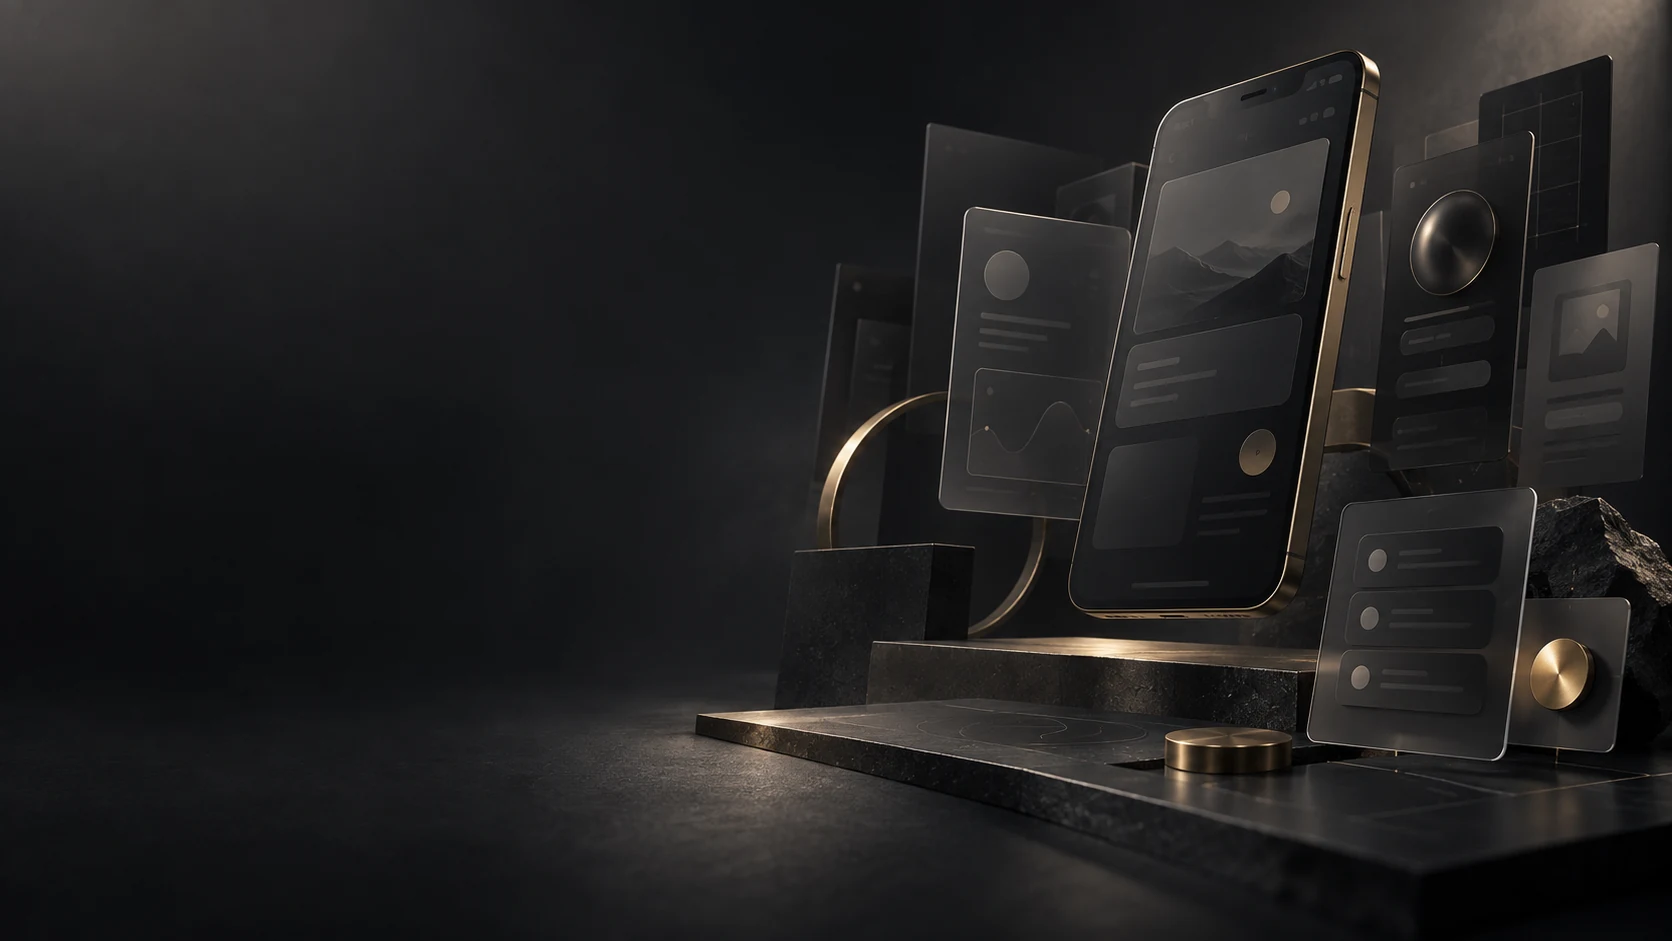
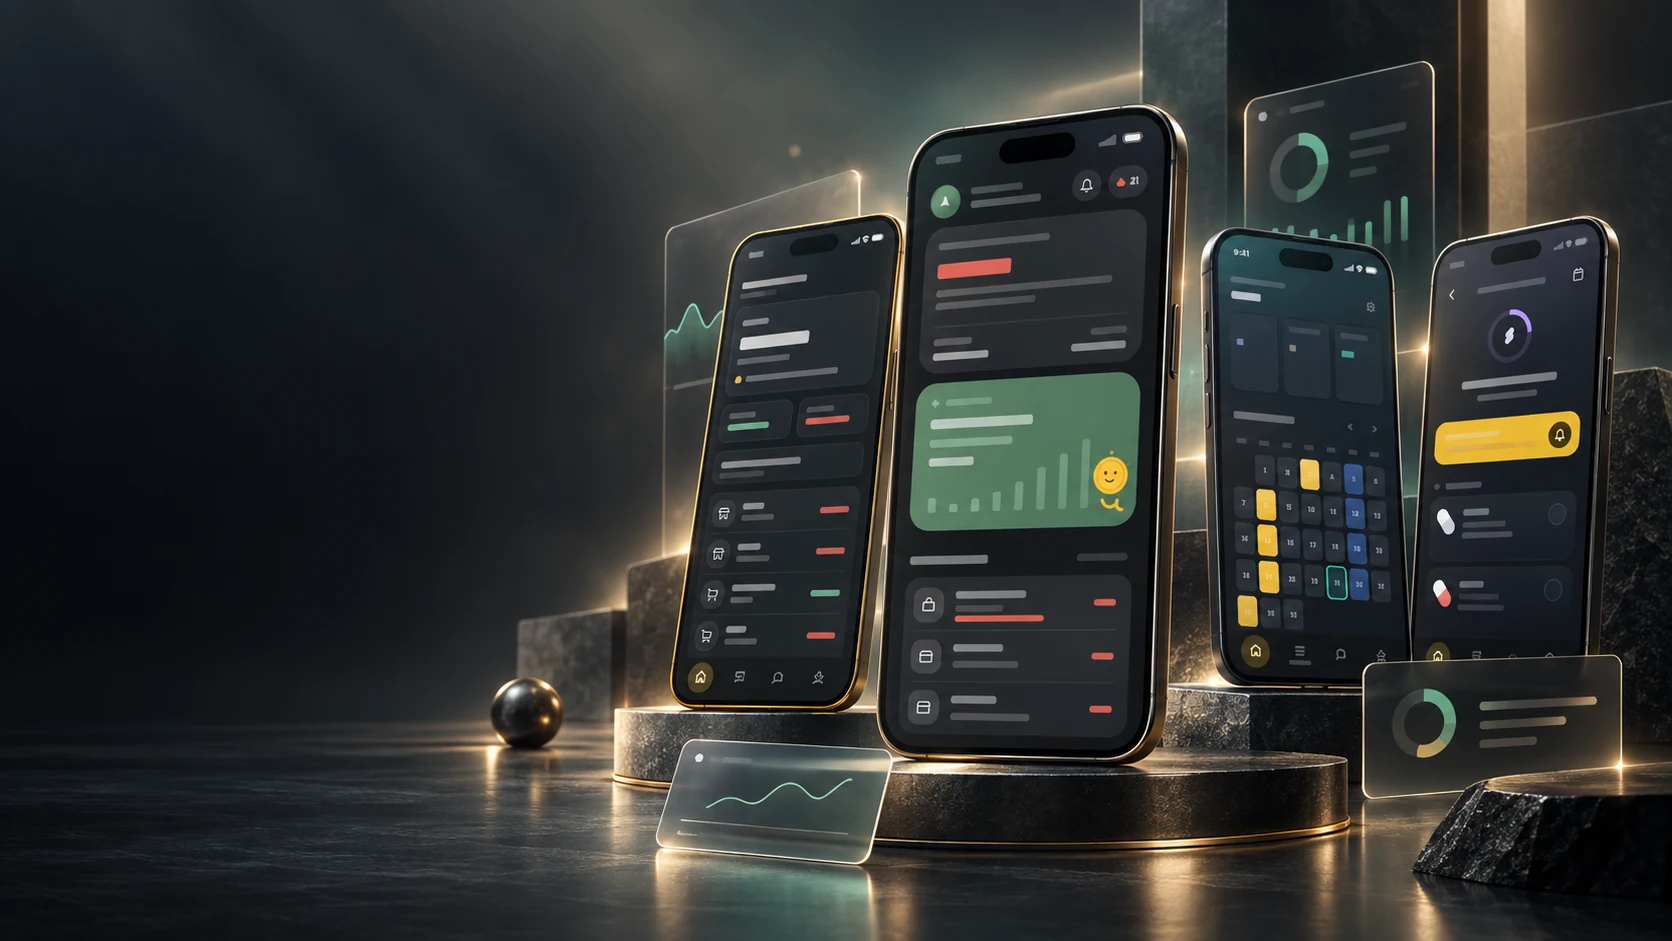
Widen navbar spacing and brighten the cinematic hero backdrop.

diff --git a/src/styles/layout.css b/src/styles/layout.css
@@ -39,6 +39,7 @@
   justify-content: space-between;
   min-height: 4.25rem;
   gap: var(--space-sm);
+  container: navbar / inline-size;
 }
 
 .brand {
@@ -187,7 +188,7 @@
   height: calc(100% + 1rem);
   margin: -0.5rem;
   object-fit: cover;
-  object-position: 66% center;
+  object-position: 82% center;
   pointer-events: none;
   user-select: none;
   transform: translate3d(
@@ -208,7 +209,7 @@
   z-index: 1;
   pointer-events: none;
   background:
-    linear-gradient(180deg, rgba(17, 18, 20, 0.9) 0%, rgba(17, 18, 20, 0.78) 100%);
+    linear-gradient(180deg, rgba(17, 18, 20, 0.86) 0%, rgba(17, 18, 20, 0.7) 48%, rgba(17, 18, 20, 0.84) 100%);
 }
 
 .hero h1 {
@@ -822,6 +823,10 @@
 }
 
 @media (max-width: 55.99rem) {
+  .hero__bg {
+    object-position: 62% center;
+  }
+
   .brand__name {
     position: absolute;
     width: 1px;
@@ -886,27 +891,35 @@
   .nav-panel {
     display: flex;
     align-items: center;
-    gap: var(--space-md);
+    gap: 3.5rem;
     margin-left: auto;
   }
 
   .nav-links {
     flex-direction: row;
     align-items: center;
-    gap: var(--space-md);
+    gap: 3.5rem;
   }
 
   .nav-cta {
     margin-top: 0;
   }
 
+  @container navbar (max-width: 56rem) {
+    .nav-panel,
+    .nav-links {
+      gap: var(--space-md);
+    }
+  }
+
   .hero::after {
     background:
       linear-gradient(
         105deg,
-        rgba(17, 18, 20, 0.94) 0%,
-        rgba(17, 18, 20, 0.86) 46%,
-        rgba(17, 18, 20, 0.62) 100%
+        rgba(17, 18, 20, 0.92) 0%,
+        rgba(17, 18, 20, 0.7) 36%,
+        rgba(17, 18, 20, 0.34) 70%,
+        rgba(17, 18, 20, 0.48) 100%
       );
   }
 

diff --git a/src/pages/HomePage.tsx b/src/pages/HomePage.tsx
@@ -80,8 +80,8 @@ export function HomePage() {
           className="hero__bg"
           src={heroPhoto}
           alt=""
-          width={1024}
-          height={507}
+          width={1280}
+          height={720}
           decoding="async"
           fetchPriority="high"
         />
